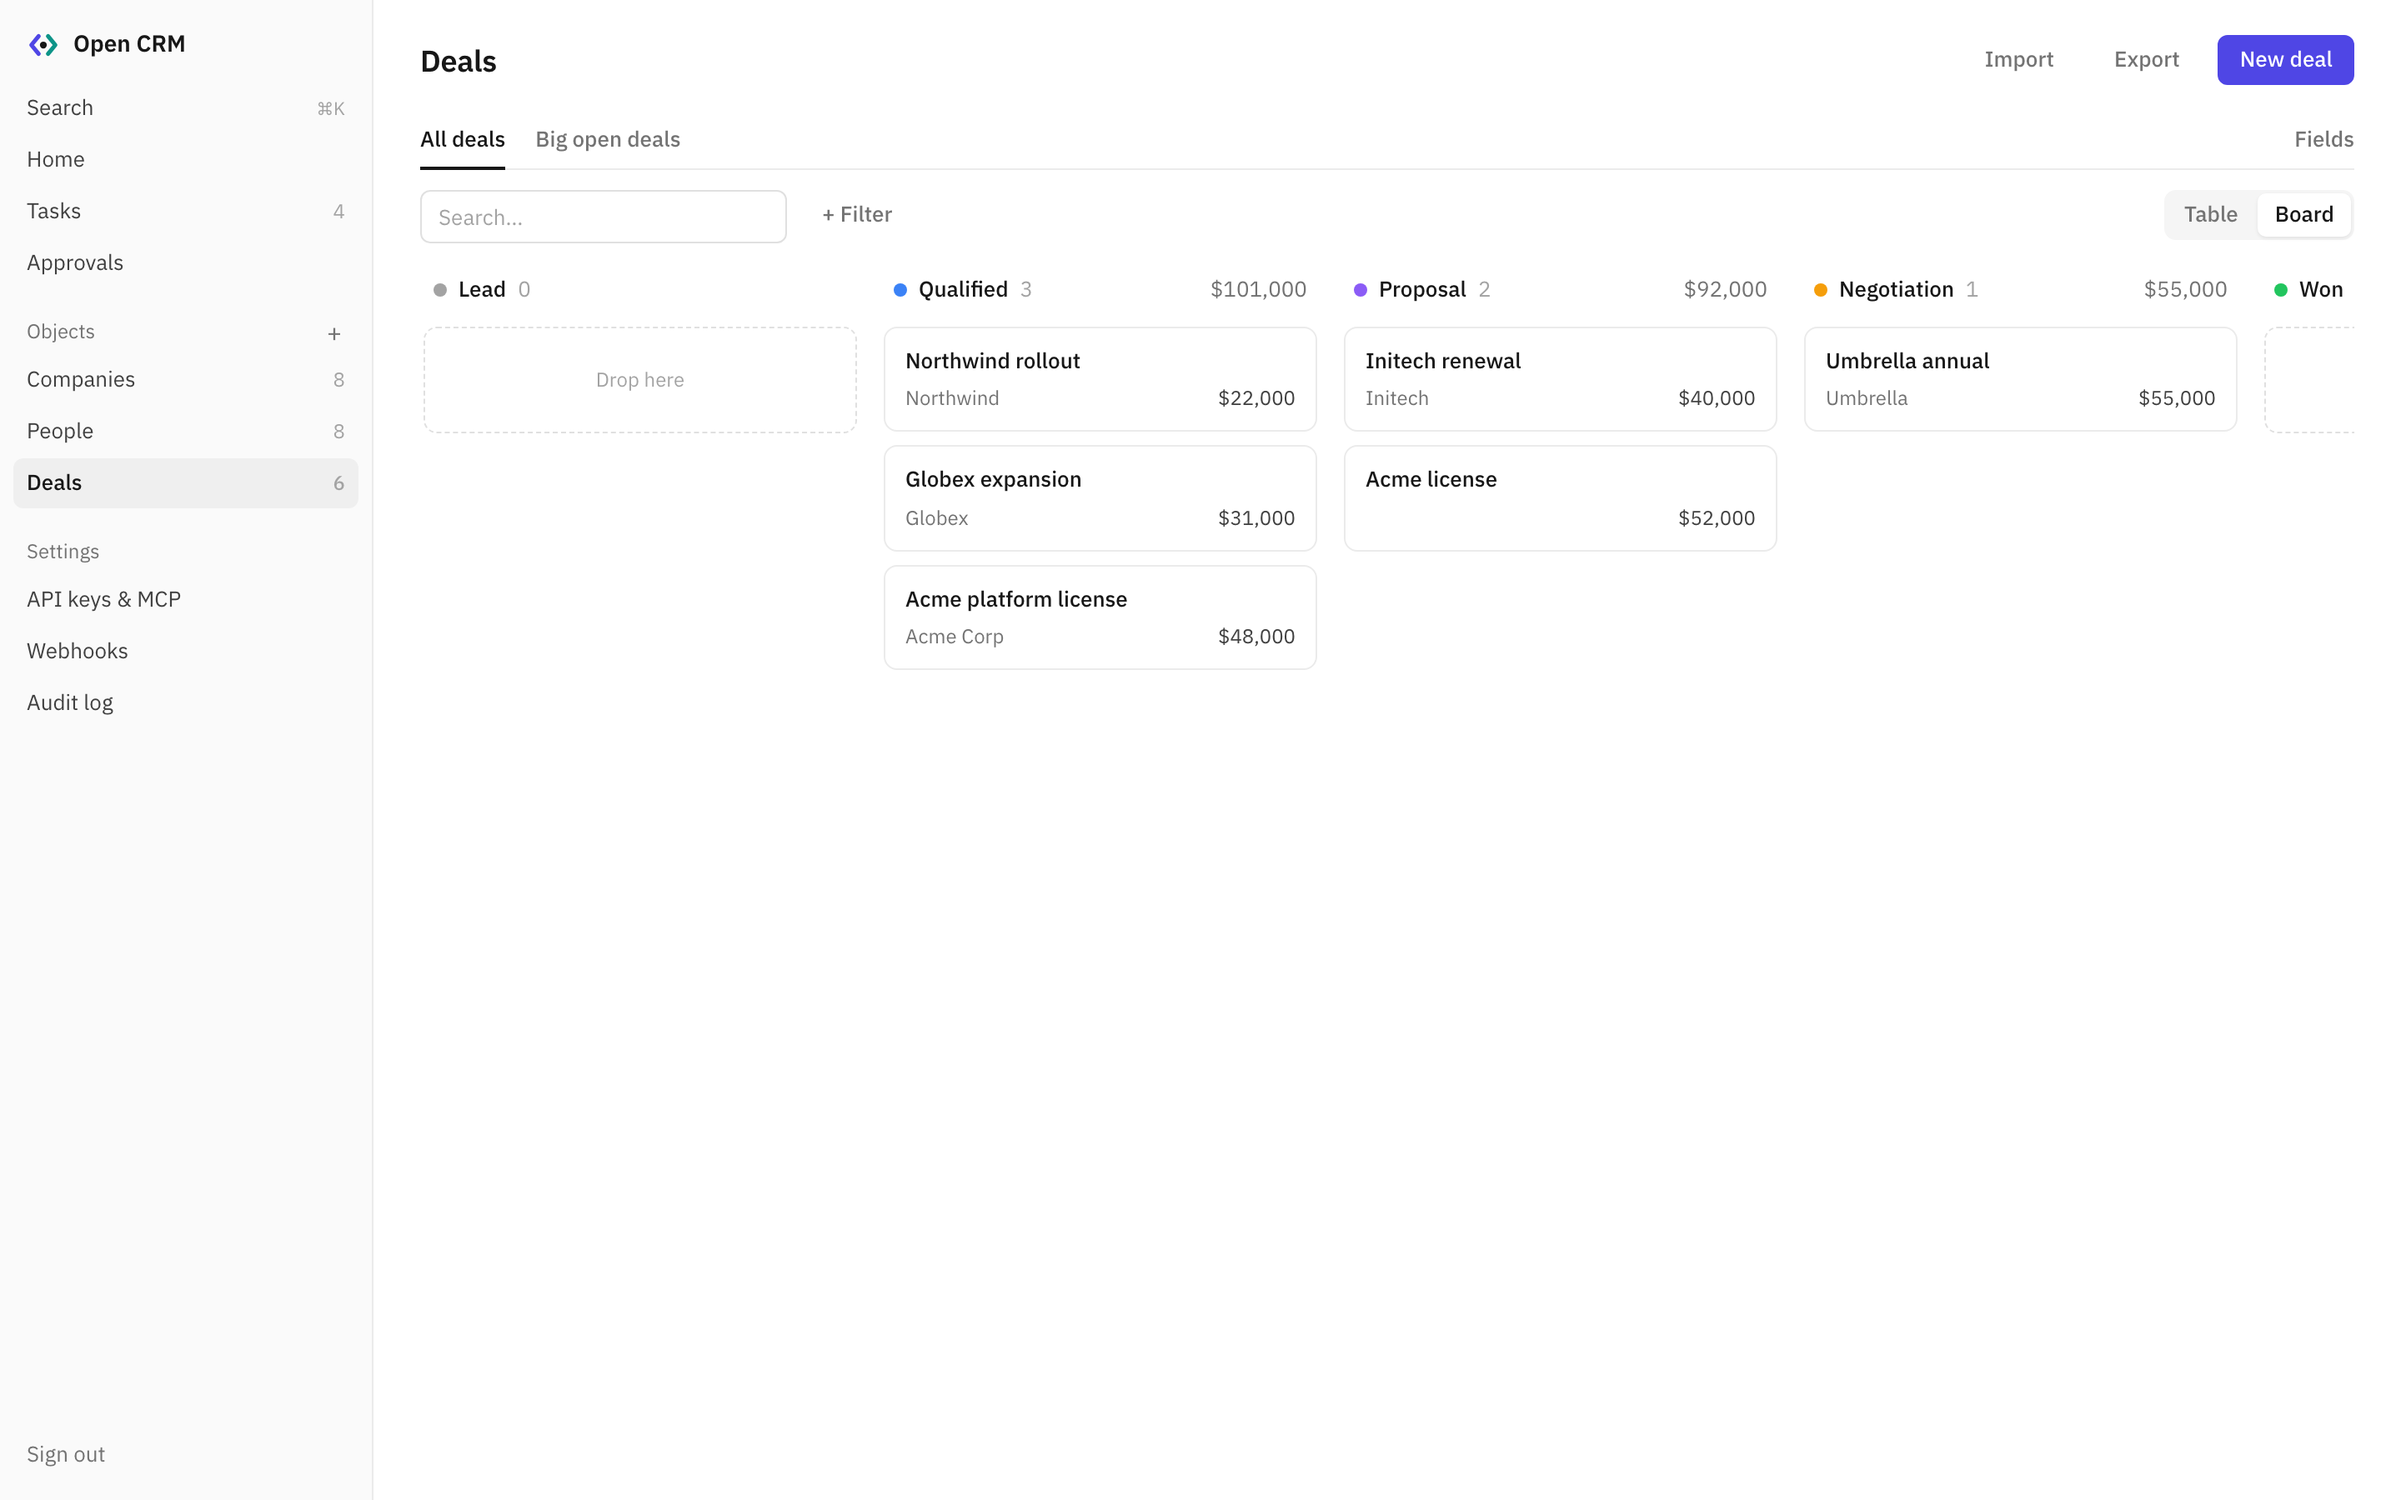
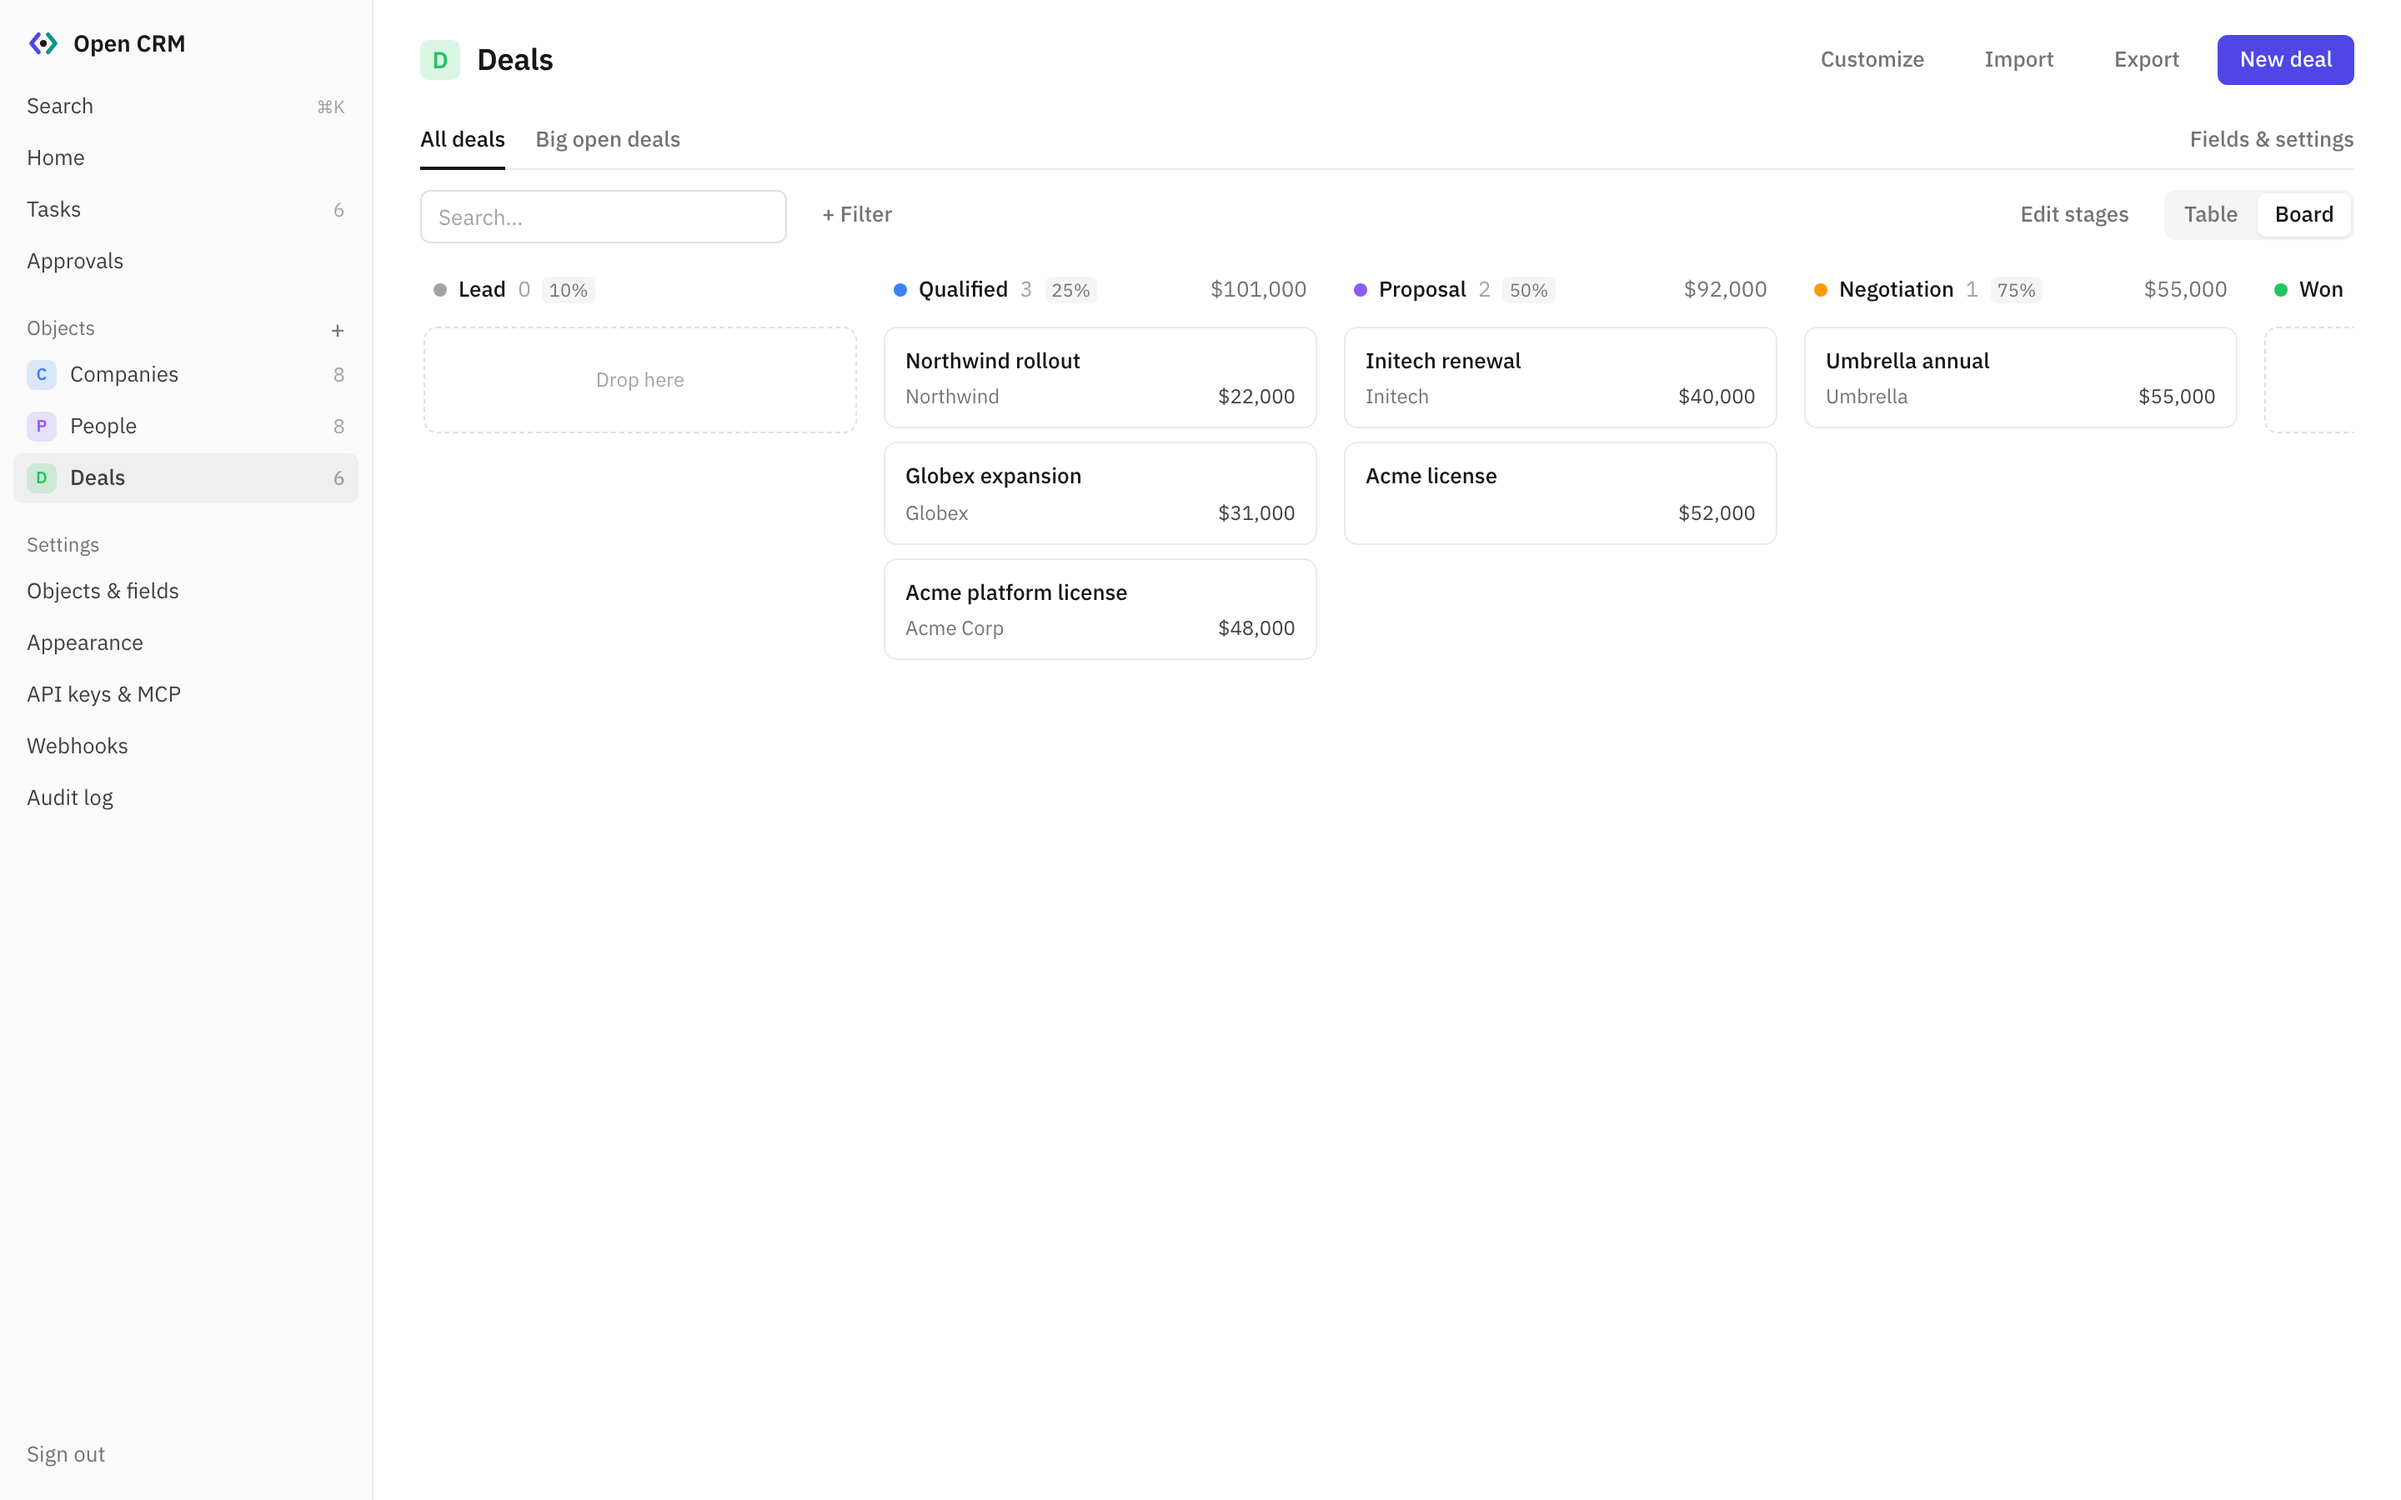
Refresh landing page screenshot with the current UI

diff --git a/site/README.md b/site/README.md
@@ -2,9 +2,6 @@
 
 A static page: `index.html`, `favicon.svg`, `og.png` and `assets/app.png`. It has no build step. The CSS and the small copy-button script are inline, and fonts load from Google Fonts.
 
-Before launch:
-- Replace `assets/app.png` with a final screenshot (1440×900 at 2x, light scheme).
-
 ## Run it in Docker
 
 The `Dockerfile` serves the files with `nginx:1.27-alpine`. It listens on `$PORT` (default `8080`), gzips text, caches `/assets/` for a year, sends `no-cache` for `index.html`, and answers `GET /health` with `200 ok`.
@@ -29,7 +26,7 @@ You can also use Render's free **Static Site** type with no Docker: set Root Dir
 ## Files
 
 - `index.html`: the page
-- `assets/app.png`: product screenshot (placeholder until the final one lands)
+- `assets/app.png`: product screenshot (1440×900 at 2x, light theme, default indigo accent)
 - `og.png`: 1200×630 social card
 - `Dockerfile`, `nginx.conf.template`, `.dockerignore`: the container
 - `screenshots/`: reference renders of the page (excluded from the image)
